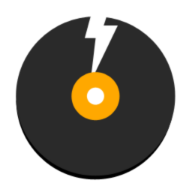
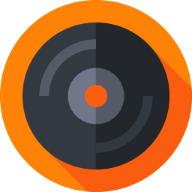
Changing default images

diff --git a/src/components/player/MusicPlayer.js b/src/components/player/MusicPlayer.js
@@ -92,7 +92,7 @@ class MusicPlayer extends React.Component {
         const seek = this.state.tick
         return (
             <div className="darkMusicPlayer">
-                <img src={song.coverArt ? subsonic.getCoverArtUrl(song.coverArt) : "/favicon.ico"} alt="cover" width="45" height="45"/>
+                <img src={song.coverArt ? subsonic.getCoverArtUrl(song.coverArt) : "/currently_placeholder.png"} alt="cover" width="45" height="45"/>
                 <div className="song_metadata_container">
                     <p><b>{song.title}</b></p>
                     {song.artist}

diff --git a/config-overrides.js b/config-overrides.js
@@ -28,10 +28,11 @@ module.exports = override(
         '@nav-bar-default-font-color' : "#FFF",
         '@btn-subtle-hover-bg' : '@main_dark',
 
-        //'@dropdown-link-hover-color': "red",
-        //'@dropdown-link-hover-bg' : "red",
+        // Button
+        '@btn-default-color' : '@text_dark',
         
-        "@slider-bar-default-bg" : '@main_light', // dark grey
+        // Slider
+        "@slider-bar-default-bg" : '@main_light',
         "@slider-bar-hover-bg": '@main_light'
     }
   })

diff --git a/src/components/search/SearchView.js b/src/components/search/SearchView.js
@@ -23,7 +23,7 @@ function AlbumElement(props) {
                     overflow: 'hidden',
                     display: 'inline-block'
                 }}>
-                <img alt="" src={album.coverArt ? subsonic.getCoverArtUrl(album.coverArt) : null} width="100" />
+                <img alt="" src={album.coverArt ? subsonic.getCoverArtUrl(album.coverArt) : "album_placeholder.jpg"} width="100" />
             </div>
             {`"${album.name}" by "${album.artist}"`}
         </div>

diff --git a/README.md b/README.md
@@ -8,7 +8,9 @@ As many existing solutions are either unmaintained, have some basic features bro
 
 After some research I found Supysonic which works really well on my ARM device (and has a Subsonic back-end which was a "must" in my requirements), but still I wanted a Spotify-like experience where I can stream my media directly on any web browser. As almost all of the existing solutions compatible with the Subsonic API are not shipped without it's own back-end, I decided to create my own following a one simple mantra: "keep it simple and beautiful".
 
-## Run
+## Installation
+
+### Running the source code
 
 Clone the repository and run from the root folder:
 
@@ -17,7 +19,7 @@ $ yarn install
 $ yarn start
 ```
 
-## Docker installation
+### Docker installation
 
 To build the image yourself:
 
@@ -49,9 +51,17 @@ $ docker stop mysubplayer
 ## TODO
 - Implement CI to push Docker image automatically when merged to `master`
 - Add unit tests
-- `feature`: Add individual Songs to queue
+- `feature`: Playing queue management (add songs, re-order, etc)
 - `feature`: Play Songs from an Artist
 - `feature`: Toggle Shuffle on/off
+- `feature`: Song seeking
 
 ## Contributions
 Any TODO item, any bug you find and want to fix, any architecture/performance/Docker improvements, any new feature you think would be cool to have is welcomed :) Just keep in mind that this project is meant to be a lightweight application capable of running on low-end devices.
+
+## Acknowledgements
+- Favicon made by Freepik from www.flaticon.com
+- Using [rsuite/rsuite](https://github.com/rsuite/rsuite) UI components.
+
+## License
+Licensed under the [GNU General Public License v3.0](https://github.com/peguerosdc/rsuite-sonicplayer/blob/master/LICENSE).
